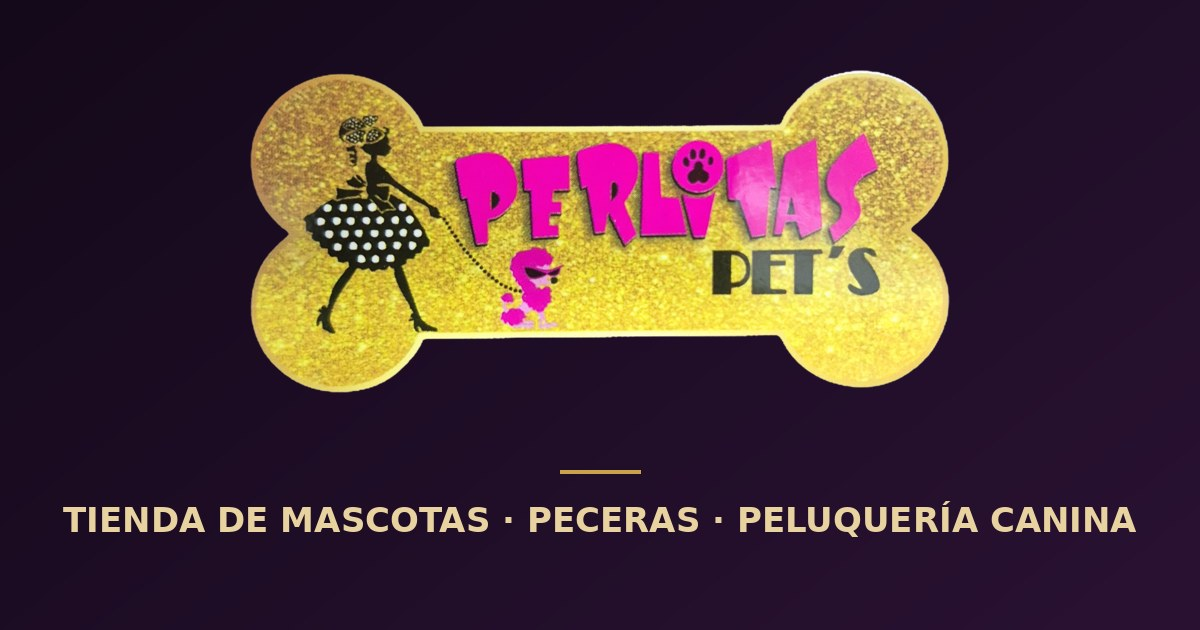
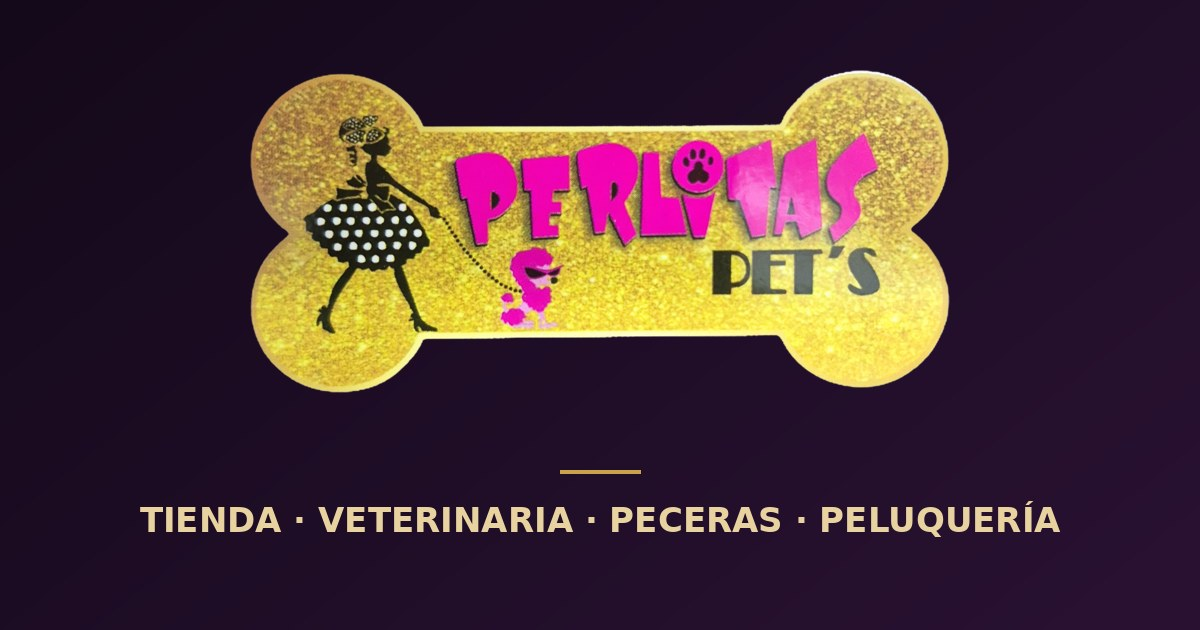
Servicios confirmados: veterinaria, guardería y venta de mascotas

Changed region(s): [[0.0617, 0.7841, 0.9558, 0.8444]]

diff --git a/index.html b/index.html
@@ -3,15 +3,15 @@
 <head>
 <meta charset="UTF-8">
 <meta name="viewport" content="width=device-width, initial-scale=1">
-<title>Perlitas Pet's | Tienda de mascotas, peceras y peluquería canina</title>
-<meta name="description" content="Perlitas Pet's: tienda de mascotas con cuidos, accesorios, productos de aseo, peceras y peluquería canina. Escríbenos por WhatsApp.">
+<title>Perlitas Pet's | Tienda de mascotas, veterinaria, peceras y peluquería canina</title>
+<meta name="description" content="Perlitas Pet's: tienda de mascotas con consulta veterinaria, guardería canina, cuidos, accesorios, peceras y peluquería y spa. Escríbenos por WhatsApp.">
 <meta name="theme-color" content="#14091A">
 <link rel="canonical" href="https://perlitaspets.jdurangotabares.workers.dev/">
 <meta property="og:type" content="website">
 <meta property="og:locale" content="es_CO">
 <meta property="og:site_name" content="Perlitas Pet's">
-<meta property="og:title" content="Perlitas Pet's | Tienda de mascotas, peceras y peluquería canina">
-<meta property="og:description" content="Cuidos, accesorios, productos de aseo, peceras y peluquería canina. Escríbenos por WhatsApp.">
+<meta property="og:title" content="Perlitas Pet's | Tienda de mascotas, veterinaria, peceras y peluquería canina">
+<meta property="og:description" content="Consulta veterinaria, guardería canina, cuidos, accesorios, peceras y peluquería y spa. Escríbenos por WhatsApp.">
 <meta property="og:url" content="https://perlitaspets.jdurangotabares.workers.dev/">
 <meta property="og:image" content="https://perlitaspets.jdurangotabares.workers.dev/img/og-image.jpg">
 <meta property="og:image:width" content="1200">
@@ -59,9 +59,9 @@
 <section class="hero" id="inicio">
   <div class="wrap hgrid">
     <div>
-      <p class="eyebrow">Tienda de mascotas · Peceras · Peluquería canina</p>
+      <p class="eyebrow">Tienda de mascotas · Veterinaria · Peceras · Peluquería y spa</p>
       <h1>Todo para tu mascota, en un solo lugar</h1>
-      <p class="lead">Cuidos, accesorios, productos de aseo, peceras y peluquería canina, con atención cercana.</p>
+      <p class="lead">Venta de mascotas, cuidos y accesorios, consulta veterinaria, guardería, peceras y peluquería y spa, con atención cercana.</p>
       <div class="cta">
         <a class="btn" href="#reserva">Reservar cita</a>
         <a class="btn" href="#visitanos">Cómo llegar</a>
@@ -91,24 +91,34 @@
     <h2>Todo para el bienestar de tu mascota</h2>
     <div class="cards">
       <article class="card">
-        <span class="ico"><svg viewBox="0 0 24 24"><path d="M6 8h12l1 13H5zM9 8a3 3 0 016 0"/></svg></span>
-        <h3>Cuidos y alimentos</h3><p>Alimento y cuidos para la nutrición diaria de tu mascota.</p>
+        <span class="ico"><svg viewBox="0 0 24 24"><path d="M10 3h4v7h7v4h-7v7h-4v-7H3v-4h7z"/></svg></span>
+        <h3>Consulta veterinaria</h3><p>Atención veterinaria para el cuidado y la salud de tu mascota.</p>
         <a class="more" data-wa="vet" href="https://wa.me/573217883279">Consultar por WhatsApp →</a>
       </article>
       <article class="card">
-        <span class="ico"><svg viewBox="0 0 24 24"><path d="M3 12V4h8l10 10-8 8z"/><circle cx="7.5" cy="8.5" r="1"/></svg></span>
-        <h3>Accesorios, ropa y aseo</h3><p>Ropa, accesorios (algunos de fabricación propia) y productos de aseo e higiene.</p>
+        <span class="ico"><svg viewBox="0 0 24 24"><circle cx="6" cy="6" r="3"/><circle cx="6" cy="18" r="3"/><path d="M8.5 8L20 19M8.5 16L20 5"/></svg></span>
+        <h3>Peluquería y spa</h3><p>Baño, corte según la raza, corte de tijera, corte de uñas, colorimetría e hidratación de mantos.</p>
+        <a class="more" data-wa="pelu" href="https://wa.me/573235960471">Reservar turno →</a>
+      </article>
+      <article class="card">
+        <span class="ico"><svg viewBox="0 0 24 24"><path d="M3 11l9-8 9 8M5 10v10h14V10M10 20v-6h4v6"/></svg></span>
+        <h3>Guardería canina</h3><p>Un lugar donde tu perro está cuidado mientras tú no estás.</p>
+        <a class="more" data-wa="vet" href="https://wa.me/573217883279">Consultar por WhatsApp →</a>
+      </article>
+      <article class="card">
+        <span class="ico"><svg viewBox="0 0 24 24"><path d="M12 20s-7-4.5-7-10a4 4 0 017-2.5A4 4 0 0119 10c0 5.5-7 10-7 10z"/></svg></span>
+        <h3>Venta de mascotas</h3><p>Pregunta por las mascotas disponibles en la tienda.</p>
+        <a class="more" data-wa="vet" href="https://wa.me/573217883279">Consultar por WhatsApp →</a>
+      </article>
+      <article class="card">
+        <span class="ico"><svg viewBox="0 0 24 24"><path d="M6 8h12l1 13H5zM9 8a3 3 0 016 0"/></svg></span>
+        <h3>Cuidos, accesorios y aseo</h3><p>Cuidos y alimentos, ropa, accesorios (algunos de fabricación propia) y productos de aseo y belleza.</p>
         <a class="more" data-wa="vet" href="https://wa.me/573217883279">Consultar por WhatsApp →</a>
       </article>
       <article class="card">
         <span class="ico"><svg viewBox="0 0 24 24"><path d="M2 12c3-5 9-6 13-2l5-3v10l-5-3c-4 4-10 3-13-2z"/><circle cx="8" cy="11" r=".8"/></svg></span>
-        <h3>Peceras</h3><p>Peceras y todo lo necesario para montar y mantener tu acuario.</p>
+        <h3>Peceras y acuarios</h3><p>Peceras, peces y accesorios, y mantenimiento de acuarios.</p>
         <a class="more" data-wa="pec" href="https://wa.me/573147933080">Consultar por WhatsApp →</a>
-      </article>
-      <article class="card">
-        <span class="ico"><svg viewBox="0 0 24 24"><circle cx="6" cy="6" r="3"/><circle cx="6" cy="18" r="3"/><path d="M8.5 8L20 19M8.5 16L20 5"/></svg></span>
-        <h3>Peluquería canina</h3><p>Baño, corte y arreglo para que tu perro luzca y se sienta bien.</p>
-        <a class="more" data-wa="pelu" href="https://wa.me/573235960471">Reservar turno →</a>
       </article>
     </div>
   </div>
@@ -147,7 +157,7 @@
       <div><span class="ico2"><svg viewBox="0 0 24 24"><path d="M12 3l2.7 5.6 6.1.9-4.4 4.3 1 6.1L12 17l-5.4 2.9 1-6.1L3.2 9.5l6.1-.9z"/></svg></span><h3>10 años de experiencia</h3><p>Una década acompañando a las mascotas y a sus familias.</p></div>
       <div><span class="ico2"><svg viewBox="0 0 24 24"><path d="M12 3v4M12 17v4M3 12h4M17 12h4M6 6l2.5 2.5M15.5 15.5L18 18M18 6l-2.5 2.5M8.5 15.5L6 18"/></svg></span><h3>Siempre a la moda</h3><p>Estilos de corte y peluquería, ropa y accesorios al día con la moda actual.</p></div>
       <div><span class="ico2"><svg viewBox="0 0 24 24"><path d="M12 20s-7-4.5-7-10a4 4 0 017-2.5A4 4 0 0119 10c0 5.5-7 10-7 10z"/></svg></span><h3>Fabricación propia</h3><p>Algunos de nuestros accesorios los hacemos nosotros mismos.</p></div>
-      <div><span class="ico2"><svg viewBox="0 0 24 24"><path d="M4 5h16v11H9l-5 4z"/></svg></span><h3>Atención directa</h3><p>Tres líneas de WhatsApp: tienda, peceras y peluquería.</p></div>
+      <div><span class="ico2"><svg viewBox="0 0 24 24"><path d="M4 5h16v11H9l-5 4z"/></svg></span><h3>Atención directa</h3><p>Tres líneas de WhatsApp: tienda y veterinaria, peceras y peluquería.</p></div>
     </div>
   </div>
 </section>
@@ -166,7 +176,7 @@
           <tr><td>Domingos y lunes festivos</td><td>9:00 a. m. – 4:00 p. m.</td></tr>
         </table>
         <h3>Contacto</h3>
-        <p>Tienda y cuidos<br><a href="tel:+573217883279"><b>321 788 3279</b></a></p>
+        <p>Tienda, veterinaria y guardería<br><a href="tel:+573217883279"><b>321 788 3279</b></a></p>
 <p>Peceras y acuarios<br><a href="tel:+573147933080"><b>314 793 3080</b></a></p>
         <p>Peluquería canina<br><a href="tel:+573235960471"><b>323 596 0471</b></a></p>
         <a class="btn" href="https://maps.app.goo.gl/RCwkvM2z5Msp8FVj8" target="_blank" rel="noopener">Abrir en Google Maps</a>
@@ -182,11 +192,11 @@
     <div>
       <p class="kicker">Reservas</p>
       <h2>Reserva o consulta</h2>
-      <p class="lead">Reserva el turno de peluquería o consulta por nuestros productos; te respondemos por WhatsApp.</p>
+      <p class="lead">Reserva el turno de peluquería o consulta por veterinaria, guardería y nuestros productos; te respondemos por WhatsApp.</p>
     </div>
     <form id="form">
       <label>Servicio
-        <select id="srv"><option>Peluquería canina</option><option>Cuidos y alimentos</option><option>Accesorios, ropa y aseo</option><option>Peceras</option></select>
+        <select id="srv"><option>Peluquería canina</option><option>Consulta veterinaria</option><option>Guardería canina</option><option>Venta de mascotas</option><option>Cuidos, accesorios y aseo</option><option>Peceras</option></select>
       </label>
       <div class="row">
         <label>Tu nombre<input id="nom" required autocomplete="name"></label>
@@ -205,10 +215,10 @@
   <div class="wrap narrow">
     <p class="kicker">Preguntas frecuentes</p>
     <h2>Resolvemos tus dudas</h2>
-    <details><summary>¿Qué productos y servicios ofrecen?</summary><p>Cuidos y alimentos, accesorios y ropa (algunos de fabricación propia), productos de aseo para mascotas, peceras y peluquería canina.</p></details>
+    <details><summary>¿Qué productos y servicios ofrecen?</summary><p>Consulta veterinaria, guardería canina, venta de mascotas, cuidos y alimentos, accesorios y ropa (algunos de fabricación propia), productos de aseo, peceras con mantenimiento de acuarios, y peluquería y spa.</p></details>
     <details><summary>¿Cómo reservo el turno de peluquería?</summary><p>Completa el formulario de esta página o escríbenos por WhatsApp; te confirmamos la disponibilidad.</p></details>
     <details><summary>¿Cuál es el horario de atención?</summary><p>De lunes a sábado de 8:00 a. m. a 7:00 p. m., y domingos y lunes festivos de 9:00 a. m. a 4:00 p. m.</p></details>
-    <details><summary>¿Cómo los contacto?</summary><p>Tienda y cuidos: 321 788 3279. Peceras: 314 793 3080. Peluquería canina: 323 596 0471.</p></details>
+    <details><summary>¿Cómo los contacto?</summary><p>Tienda, veterinaria y guardería: 321 788 3279. Peceras: 314 793 3080. Peluquería y spa: 323 596 0471.</p></details>
     <details><summary>¿Dónde están ubicados?</summary><p>Encuentra el mapa en la sección “Visítanos” o ábrelo directamente en Google Maps.</p></details>
   </div>
 </section>

diff --git a/js/main.js b/js/main.js
@@ -1,7 +1,7 @@
 const wa = (t, n) => `https://wa.me/${n}?text=${encodeURIComponent(t)}`;
 const NUM = { vet: CONFIG.WA_VET, pelu: CONFIG.WA_PELU, pec: CONFIG.WA_PEC };
 const SALUDO = {
-  vet: "Hola Perlitas Pet's, quiero información de la tienda, cuidos, accesorios o peceras.",
+  vet: "Hola Perlitas Pet's, quiero información de la tienda, veterinaria o guardería.",
   pelu: "Hola Perlitas Pet's, quiero información de la peluquería canina.",
 pec: "Hola Perlitas Pet's, quiero información de peceras y acuarios."
 };
@@ -92,7 +92,7 @@ window.open(wa(msg, num), '_blank', 'noopener');
 
 // ---- Compartir el sitio ----
 document.getElementById('share').onclick = async () => {
-  const d = { title: "Perlitas Pet's", text: "Mira Perlitas Pet's: tienda de mascotas, peceras y peluquería canina.", url: location.href.split('#')[0] };
+  const d = { title: "Perlitas Pet's", text: "Mira Perlitas Pet's: tienda de mascotas, veterinaria, peceras y peluquería canina.", url: location.href.split('#')[0] };
   if (navigator.share) { try { await navigator.share(d); } catch {} }
   else window.open(`https://wa.me/?text=${encodeURIComponent(d.text + ' ' + d.url)}`, '_blank', 'noopener');
 };

diff --git a/css/styles.css b/css/styles.css
@@ -215,3 +215,9 @@ footer{background:linear-gradient(180deg,#14091A,#0B0410);border-top:1px solid r
 
 @media(max-width:760px){.mbar{grid-template-columns:repeat(3,1fr)}.mbar a{font-size:.95rem}}
 .aviso{background:linear-gradient(135deg,#B8892B,#F2D98A 50%,#B8892B);color:#14091A;text-align:center;padding:9px 16px;font-weight:600;font-size:.95rem}
+
+
+/* Servicios: 6 tarjetas */
+.cards{grid-template-columns:repeat(3,1fr)}
+@media(max-width:900px){.cards{grid-template-columns:repeat(2,1fr)}}
+@media(max-width:760px){.cards{grid-template-columns:1fr}}
